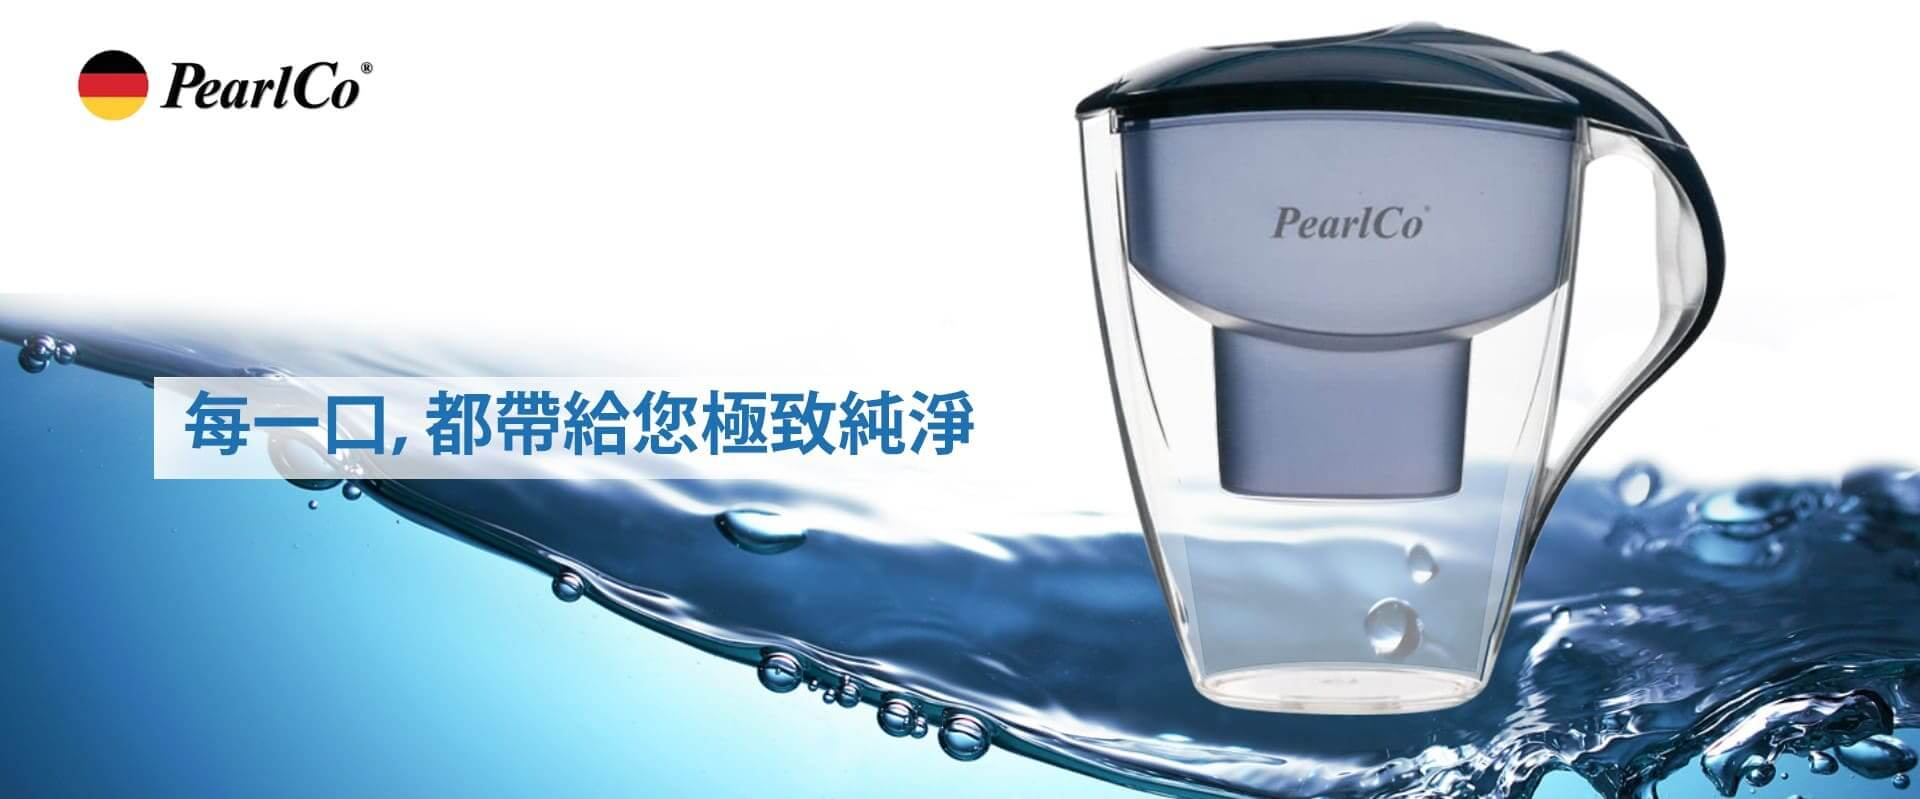
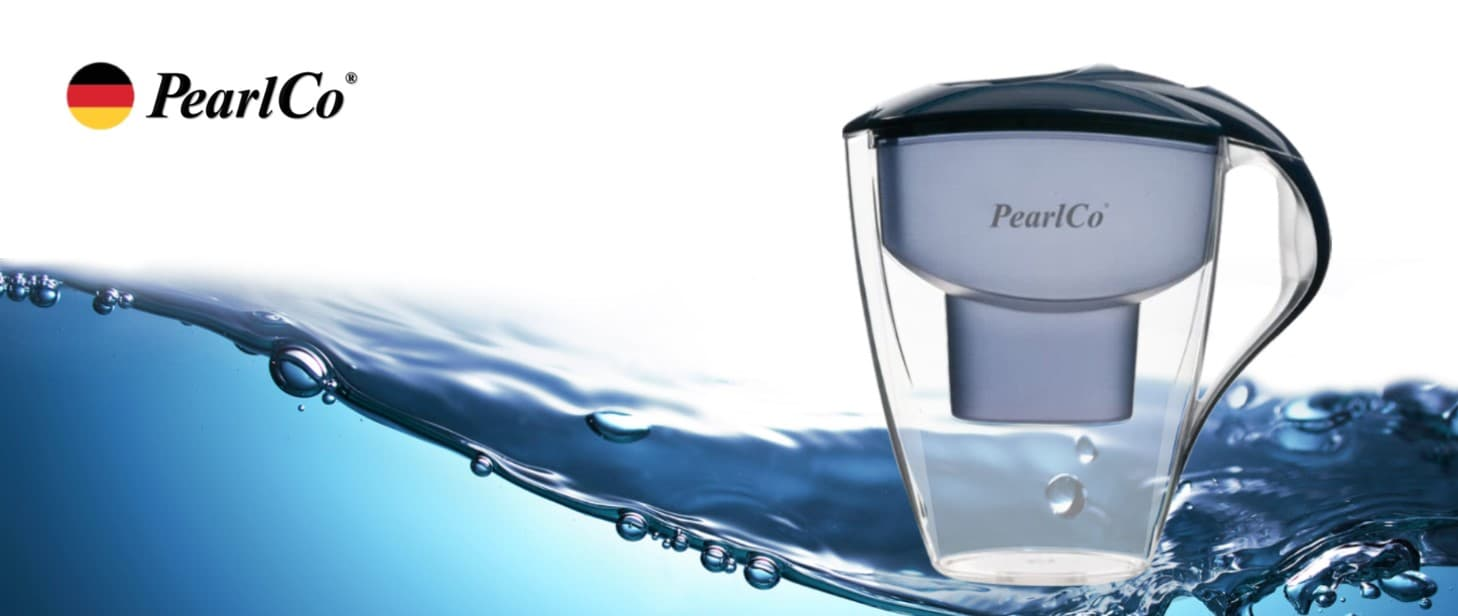
index

diff --git a/css/index.css b/css/index.css
@@ -45,8 +45,8 @@ section {
 
 .pearlcoPureWaterText {
   position: absolute;
-  top: 20%;
-  left: 9%;
+  top: 26%;
+  left: 10%;
   display: inline-block;
   font-size: 30px;
   color: #535353;
@@ -61,6 +61,20 @@ section {
 .noOne {
   letter-spacing: 2px;
   display: inline;
+}
+
+.absoluteClean {
+  position: absolute;
+  top: 50%;
+  left: 12%;
+  background: white;
+  opacity: 0.8;
+}
+
+.absoluteClean p {
+  color: #1865ba;
+  font-size: 48px;
+  font-weight: bold;
 }
 
 
@@ -318,6 +332,14 @@ section {
     font-size: 30px;
   }
 
+  .absoluteClean {
+    left: 12%;
+  }
+
+  .absoluteClean p {
+    font-size: 38px;
+  }
+
   .pearlcoFilterTitle h3 {
     font-size: 32px;
   }
@@ -407,6 +429,10 @@ section {
     font-size: 24px;
   }
 
+  .absoluteClean p {
+    font-size: 30px;
+  }
+
   .pearlcoFilterTitle h3 {
     font-size: 26px;
   }
@@ -488,6 +514,10 @@ section {
     font-size: 16px;
   }
 
+   .absoluteClean p {
+    font-size: 23px;
+  }
+
   .pearlcoFilterTitle h3 {
     font-size: 18px;
   }
@@ -564,7 +594,7 @@ section {
   }
 
   .pearlcoPureWaterText {
-    top: 10%;
+    top: 18%;
     left: 10%;
   }
 
@@ -574,6 +604,14 @@ section {
 
   .pearlcoPureWaterText p {
     font-size: 12px;
+  }
+
+   .absoluteClean {
+    left: 10%;
+   }
+
+   .absoluteClean p {
+    font-size: 16px;
   }
 
   .pearlcoFilterTitle h3 {

diff --git a/index.html b/index.html
@@ -51,7 +51,7 @@
 
 
   <!-- <script src="./js/flickity.pkgd.min.js"></script> -->
- <!--  <script src="/js/cool.js"></script> -->
+  <!-- <script src="/js/cool.js"></script> -->
 
   <link href="https://stackpath.bootstrapcdn.com/font-awesome/4.7.0/css/font-awesome.min.css" rel="stylesheet" integrity="sha384-wvfXpqpZZVQGK6TAh5PVlGOfQNHSoD2xbE+QkPxCAFlNEevoEH3Sl0sibVcOQVnN" crossorigin="anonymous">
   <link rel="stylesheet" type="text/css" href="/css/icon.css">
@@ -124,6 +124,10 @@
       <div class="pearlcoPureWaterText">
         <h1>德國濾水壺</h1>
         <p class="noOne">領導品牌</p>
+      </div>
+
+      <div class="absoluteClean">
+        <p>每一口,都帶給您極致純淨</p>
       </div>
       <img src="/images/landing_page/pureWater.jpg" alt="PearlCo濾水壺" title="PearlCo濾水壺">
     </section>
